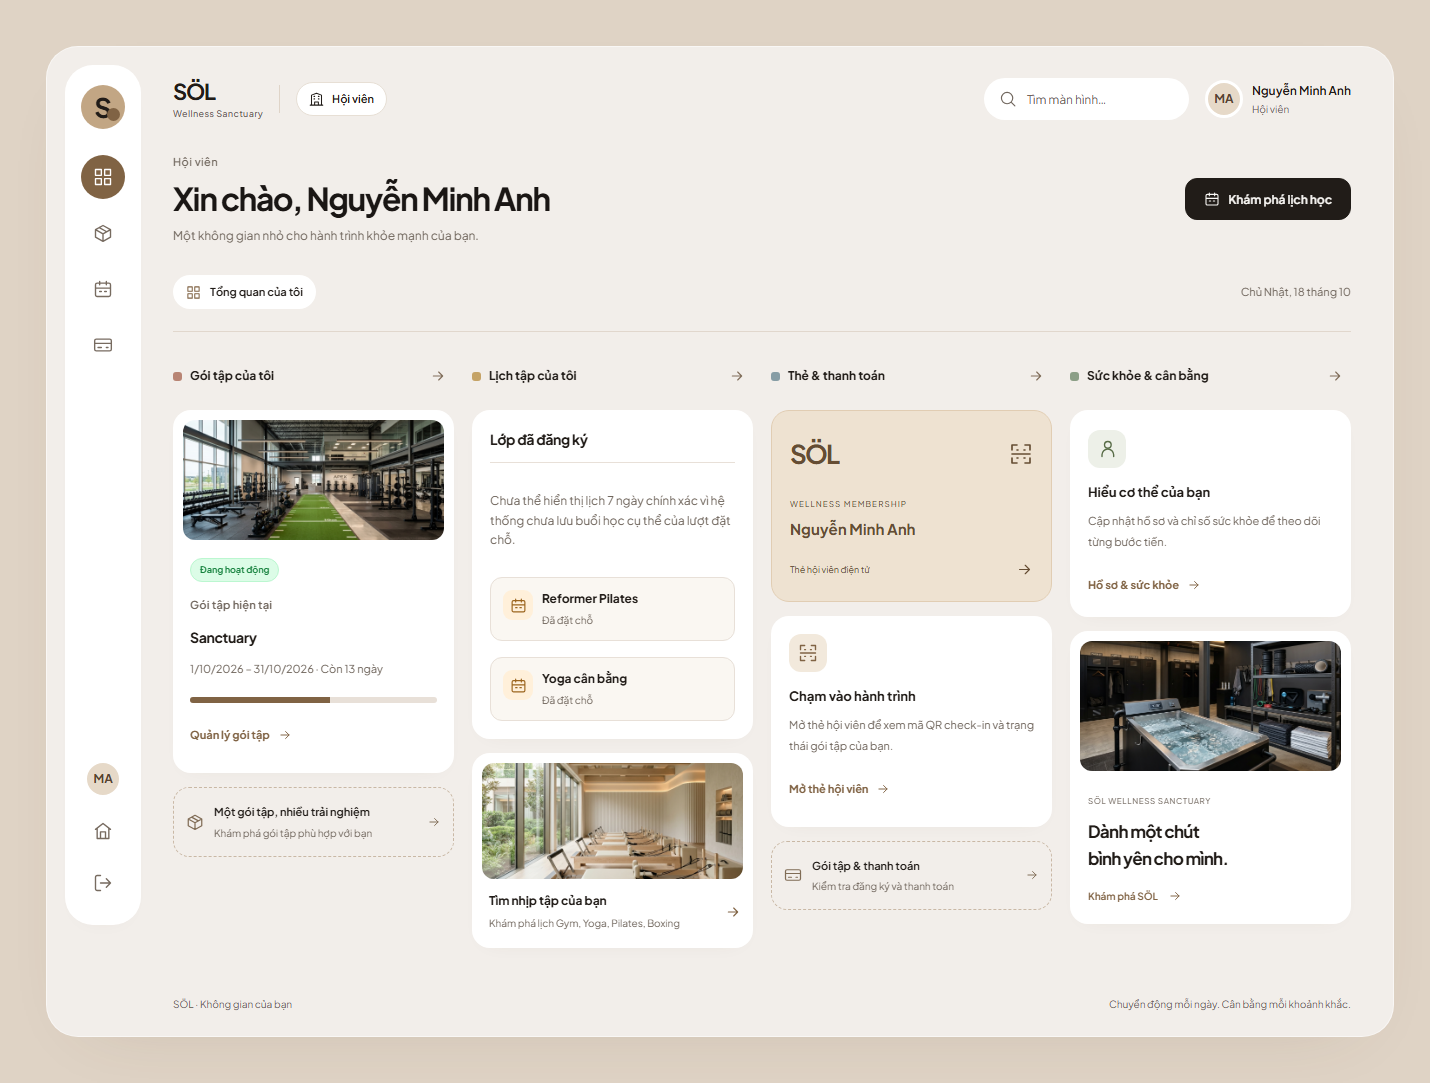
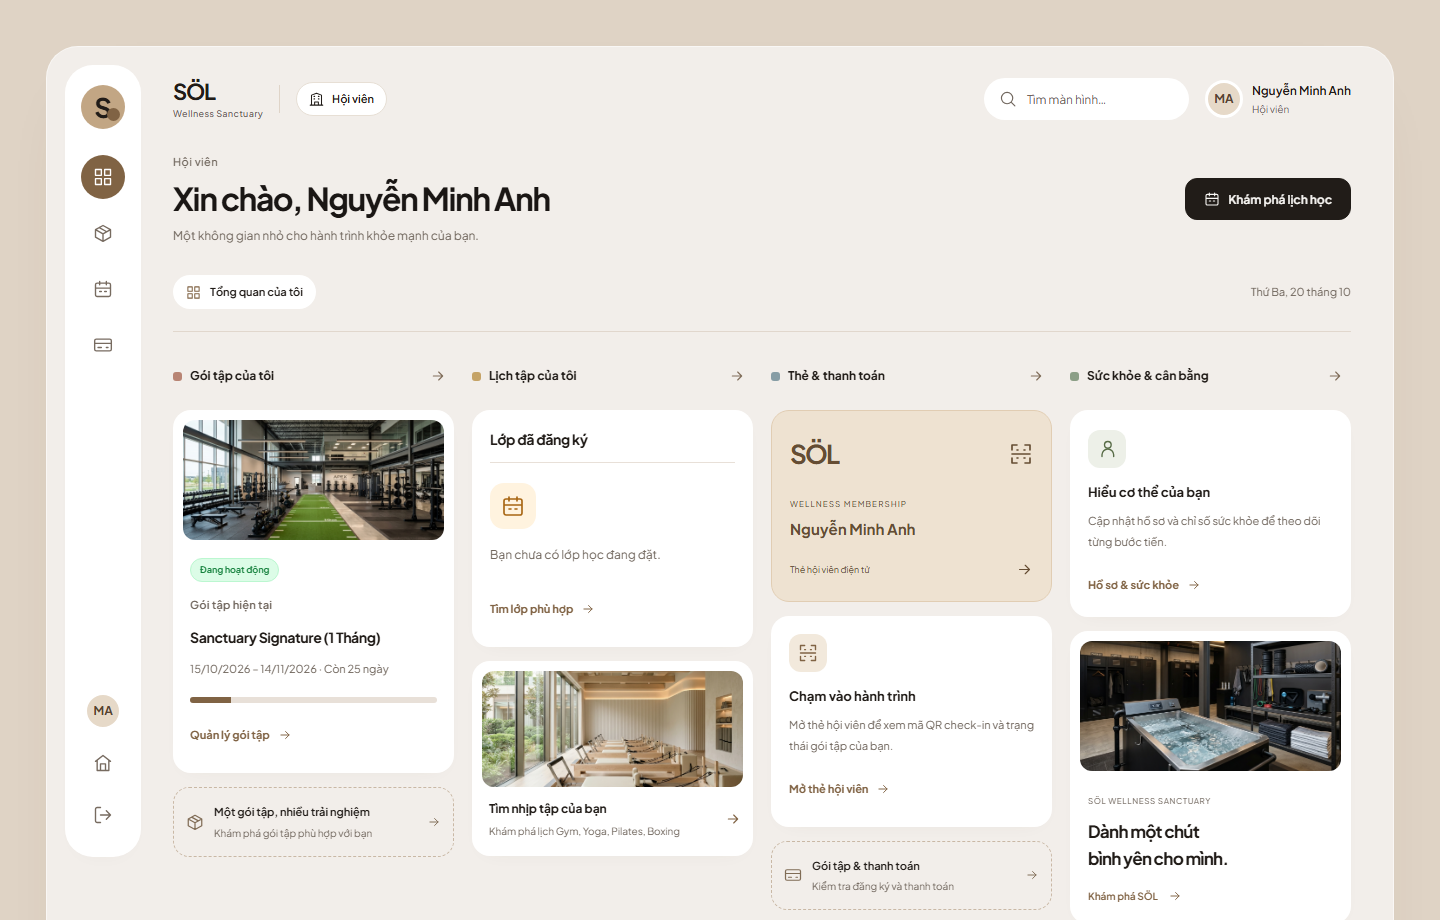
docs(readme): showcase screenshots of all main application screens

diff --git a/README.md b/README.md
@@ -16,7 +16,7 @@
 
 <br />
 
-<img src="apps/web/public/images/hero-sports-sanctuary.jpg" alt="SÖL Wellness Sanctuary Hero Banner" width="100%" />
+<img src="docs/qa/portal-redesign/landing-1440.png" alt="SÖL Wellness Sanctuary Landing Page" width="100%" />
 
 </div>
 
@@ -24,40 +24,76 @@
 
 ## ✨ Giới thiệu tổng quan
 
-**Sports Center Management System (SCMS)** là hệ thống quản lý vận hành trung tâm thể hình & wellness hiện đại, kết hợp cổng thông tin hội viên (**React + Vite + TypeScript**) với **Spring Boot 3 REST API (Java 21)** và cơ sở dữ liệu đám mây **Supabase PostgreSQL** theo kiến trúc **Hibernate Code-First** cùng hệ thống **PostgreSQL Trigger** kiểm soát toàn vẹn nghiệp vụ.
+**Sports Center Management System (SCMS)** là hệ thống quản lý vận hành trung tâm thể hình & wellness hiện đại, kết hợp cổng thông tin đa phân hệ (**React + Vite + TypeScript**) với **Spring Boot 3 REST API (Java 21)** và cơ sở dữ liệu đám mây **Supabase PostgreSQL** theo kiến trúc **Hibernate Code-First** cùng hệ thống **PostgreSQL Trigger** kiểm soát toàn vẹn nghiệp vụ.
 
 - **CI/CD Tự động hóa:** Xem [Hướng dẫn GitHub Actions → Vercel + Render](docs/CICD_SETUP.md) để cấu hình Secrets và theo dõi toàn bộ luồng kiểm thử (CI) lẫn triển khai Production (CD) trong tab **Actions**.
 - **Cơ sở dữ liệu đám mây:** Sử dụng duy nhất profile `supabase` (**Supabase PostgreSQL** qua TLS), tự động ánh xạ schema từ JPA Entity và nạp trigger nghiệp vụ khi khởi chạy. Xem chi tiết tại [Hướng dẫn Supabase](docs/SUPABASE_SETUP.md).
 
 ---
 
-## 🖼 Giao diện hệ thống (UI Showcase)
+## 🖥 Các màn hình chính của hệ thống (Main Screens Showcase)
 
-### 1. Cổng thông tin Hội viên (Member Portal — Desktop)
-Không gian trực quan giúp hội viên theo dõi gói tập đang hoạt động, lịch học 7 ngày, thẻ hội viên điện tử QR và chỉ số sức khỏe cá nhân:
+### 1. Trang chủ & Cổng Đăng nhập (`/` & `/login`)
+Giao diện giới thiệu dịch vụ cao cấp tích hợp trợ lý AI và cổng đăng nhập phân luồng tự động theo 4 vai trò (**Hội viên**, **Lễ tân**, **Huấn luyện viên**, **Quản lý trung tâm**):
 
-<p align="center">
-  <img src="docs/qa/portal-redesign/member-dashboard-1440.png" alt="Member Dashboard Desktop" width="100%" />
-</p>
-
-### 2. Báo cáo Doanh thu & Thống kê Quản lý (Manager Analytics)
-Bảng điều khiển dành cho Quản lý trung tâm với thống kê doanh thu theo ngày/tháng, tỷ lệ gia hạn, biểu đồ trực quan và lịch sử hóa đơn POS thời gian thực:
-
-<p align="center">
-  <img src="docs/qa/portal-redesign/manager-reports-768.png" alt="Manager Revenue Reports" width="75%" />
-</p>
-
-### 3. Trải nghiệm Đa thiết bị (Responsive Mobile Views)
-
-| Trang tổng quan Hội viên (Mobile) | Hồ sơ cá nhân & Chỉ số sức khỏe (Mobile) |
+| Trang chủ SÖL Wellness Sanctuary (`/`) | Cổng Đăng nhập Đa vai trò (`/login`) |
 | :---: | :---: |
-| <img src="docs/qa/portal-redesign/member-dashboard-375.png" alt="Member Dashboard Mobile" width="320" /> | <img src="docs/qa/portal-redesign/member-profile-375.png" alt="Member Profile Mobile" width="320" /> |
+| <img src="docs/qa/portal-redesign/landing-1440.png" alt="Landing Page" width="100%" /> | <img src="docs/qa/portal-redesign/login-1440.png" alt="Login Page" width="100%" /> |
 
-### 4. Không gian Tập luyện & Dịch vụ tại SÖL Wellness Sanctuary
+---
 
-| Reformer Pilates Studio | Aerial Silk & Yoga Studio | Thermal & Cold Plunge Recovery |
-| :---: | :---: | :---: |
-| <img src="apps/web/public/images/pilates-reformer-studio.jpg" alt="Pilates Studio" width="100%" /> | <img src="apps/web/public/images/yoga-aerial-silk-studio.jpg" alt="Yoga Studio" width="100%" /> | <img src="apps/web/public/images/about-thermal-recovery.jpg" alt="Thermal Recovery" width="100%" /> |
+### 2. Phân hệ Hội viên — Member Portal (`/member/*`)
+Không gian cá nhân giúp hội viên theo dõi thời hạn gói tập, đăng ký gói mới, đặt lịch lớp học có kiểm tra trùng lịch/sức chứa và xuất trình mã QR check-in:
+
+#### 📊 Trang tổng quan Hội viên (`/member/dashboard`)
+<p align="center">
+  <img src="docs/qa/portal-redesign/member-dashboard-1440.png" alt="Member Dashboard" width="100%" />
+</p>
+
+| 💳 Gói tập & Lịch sử Thanh toán (`/member/packages`) | 📅 Đặt lịch Lớp học & Lịch của tôi (`/member/classes`) |
+| :---: | :---: |
+| <img src="docs/qa/portal-redesign/member-packages-1440.png" alt="Member Packages" width="100%" /> | <img src="docs/qa/portal-redesign/member-classes-1440.png" alt="Member Classes" width="100%" /> |
+
+| 🪪 Thẻ Hội viên Điện tử & QR Check-in (`/member/card`) | 📱 Giao diện Mobile & Hồ sơ Sức khỏe BMI (`/member/profile`) |
+| :---: | :---: |
+| <img src="docs/qa/portal-redesign/member-card-1440.png" alt="Member QR Card" width="100%" /> | <img src="docs/qa/portal-redesign/member-profile-375.png" alt="Member Profile Mobile" width="260" /> <img src="docs/qa/portal-redesign/member-dashboard-375.png" alt="Member Dashboard Mobile" width="260" /> |
+
+---
+
+### 3. Phân hệ Lễ tân & Thu ngân — Front Desk & POS (`/staff/*`)
+Bộ công cụ tác nghiệp tại quầy lễ tân: đăng ký nhanh hội viên mới, thu ngân POS (Tiền mặt / VietQR), cổng kiểm soát ra vào bằng mã QR và điều phối lịch lớp học:
+
+| 🧾 Quầy Thu ngân POS & Cấp Gói tập (`/staff/reception`) | 🔍 Cổng Quét QR Check-in Thời gian thực (`/staff/check-in`) |
+| :---: | :---: |
+| <img src="docs/qa/portal-redesign/staff-reception-1440.png" alt="Staff Reception POS" width="100%" /> | <img src="docs/qa/portal-redesign/staff-checkin-1440.png" alt="Staff QR Check-in" width="100%" /> |
+
+#### 🗓 Quản lý Lớp học & Xếp lịch Phòng tập (`/staff/classes`)
+<p align="center">
+  <img src="docs/qa/portal-redesign/staff-classes-1440.png" alt="Staff Class Scheduling" width="100%" />
+</p>
+
+---
+
+### 4. Phân hệ Huấn luyện viên — Coach Workspace (`/staff/attendance`)
+Màn hình chuyên biệt cho Huấn luyện viên điểm danh học viên theo từng buổi tập, chấm điểm kỹ thuật và tạo nhận xét/đánh giá kết quả tập luyện hỗ trợ bởi AI:
+
+<p align="center">
+  <img src="docs/qa/portal-redesign/coach-attendance-1440.png" alt="Coach Attendance and Evaluation" width="100%" />
+</p>
+
+---
+
+### 5. Phân hệ Quản lý Trung tâm — Center Manager (`/manager/*`)
+Trung tâm điều hành dành cho cấp Quản lý: theo dõi báo cáo doanh thu, tỷ lệ gia hạn, quản trị danh mục vận hành (Bộ môn, Phòng tập, Gói tập) và phân quyền tài khoản RBAC:
+
+#### 📈 Báo cáo Doanh thu & Thống kê Vận hành (`/manager/reports`)
+<p align="center">
+  <img src="docs/qa/portal-redesign/manager-reports-1440.png" alt="Manager Revenue Reports" width="100%" />
+</p>
+
+| 🗂 Danh mục Vận hành: Bộ môn · Phòng tập · Gói tập (`/manager/catalogs`) | 🔐 Quản lý Tài khoản & Phân quyền RBAC (`/manager/users`) |
+| :---: | :---: |
+| <img src="docs/qa/portal-redesign/manager-catalogs-1440.png" alt="Manager Catalogs" width="100%" /> | <img src="docs/qa/portal-redesign/manager-users-1440.png" alt="Manager Users & RBAC" width="100%" /> |
 
 ---
 
